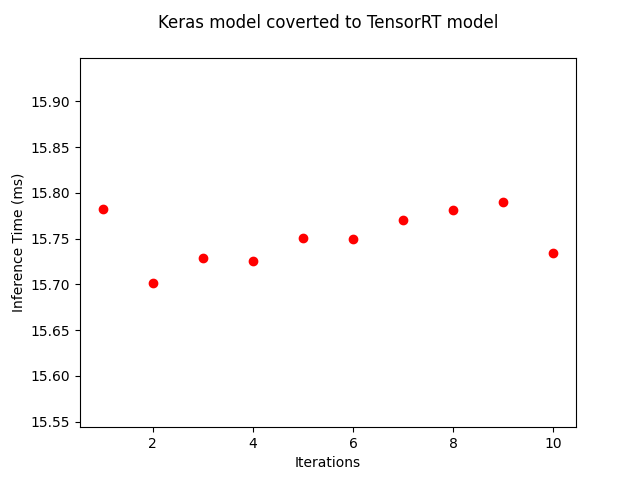
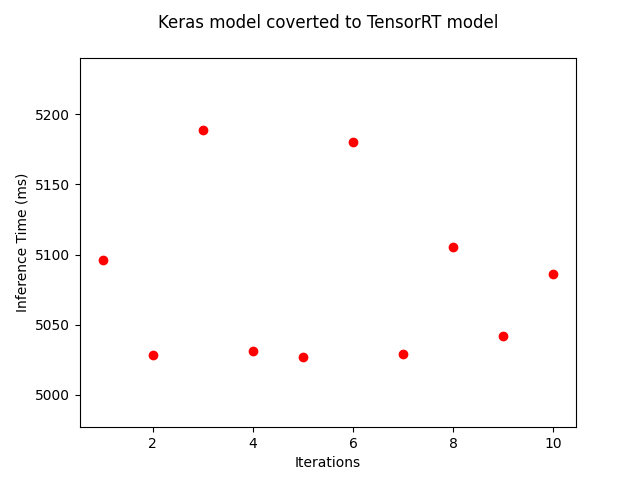
m,nm,

diff --git a/runtime/runtime/tesst.py b/runtime/runtime/tesst.py
@@ -1,7 +1,7 @@
 a = [28346.26340866089, 28408.08868408203, 28422.67314924785, 28366.67872214016, 28386.4611393574, 28343.18676076686, 28325.18460088126, 28407.54472347473, 28438.78745586606, 28439.75975982661]
 b = [256303.6434650421, 249321.50077819824, 256547.8753627453, 249741.8396472931, 247546.98657989502, 255889.4952193886, 256818.8916057801, 253136.6511636468, 250562.2741344004, 259439.1410456818]
-c = [24526.4253616333, 24399.231672286987, 24442.43281615819, 24437.33900843465, 24476.42224706577, 24475.43293650316, 24506.83685101479, 24524.50671936299, 24537.33167489083, 24451.54413778535]
-d = [15860.400438308716, 16003.870643178016, 15925.209657683425, 15887.1520994536, 15846.181471376374, 15825.229221967473, 16007.650881747957, 15798.100303473751, 15961.959201080297, 15780.764892232613]
+c = [5096.033573150635, 5028.115588388263, 5188.541350908367, 5031.151940463104, 5027.166984252482, 5180.261882229292, 5029.117975579096, 5105.194769272201, 5042.087670181283, 5086.290595646324]
+d = [344314.96596336365, 351855.140209198, 351871.97204468725, 348931.5975860581, 345376.1910304965, 346759.1915006889, 350542.4948814845, 348764.7173796807, 344505.7678921289, 348419.72281439696]
 for i in range(10):
     print("\hline")
     temp = str(i+1) + " & " + str(c[i]/1554) + " & " + str(d[i]) + "\\" + "\\"
@@ -10,4 +10,4 @@ for i in range(10):
 temp = 0
 for i in d:
     temp+=i
-print(temp/10)
+print(temp/15540)

diff --git a/runtime/runtime/graph_keras.py b/runtime/runtime/graph_keras.py
@@ -1,10 +1,8 @@
 from matplotlib import pyplot as plt
 
-f = [24526.4253616333, 24399.231672286987, 24442.43281615819, 24437.33900843465, 24476.42224706577, 24475.43293650316, 24506.83685101479, 24524.50671936299, 24537.33167489083, 24451.54413778535]
-b = [15860.400438308716, 16003.870643178016, 15925.209657683425, 15887.1520994536, 15846.181471376374, 15825.229221967473, 16007.650881747957, 15798.100303473751, 15961.959201080297, 15780.764892232613]
-a = []
-for i in f:
-    a.append(i/1554)
+a = [5096.033573150635, 5028.115588388263, 5188.541350908367, 5031.151940463104, 5027.166984252482, 5180.261882229292, 5029.117975579096, 5105.194769272201, 5042.087670181283, 5086.290595646324]
+b = [344314.96596336365, 351855.140209198, 351871.97204468725, 348931.5975860581, 345376.1910304965, 346759.1915006889, 350542.4948814845, 348764.7173796807, 344505.7678921289, 348419.72281439696]
+
 
 c =range(1,11)
 
@@ -25,7 +23,7 @@ c =range(1,11)
 
 
 d = ["TensorRT", "Keras"]
-e = [sum(a)/15540, sum(b)]
+e = [sum(a)/15540, sum(b)/15540]
 plt.barh(d,e,height=0.1,align='center')
 plt.title("Comparing the 2 model\n Average inference time")
 plt.ylabel("Model type")

diff --git a/testing_zone/tensorrt/comparing__keras.py b/testing_zone/tensorrt/comparing__keras.py
@@ -64,4 +64,4 @@ for root, directories, files in os.walk(data_path):
 print("total time for emotional recognition for keras model: {}".format(time_total*1000))
 # print(time_total*1000)    
 print("Accuracy: {}".format(res*1.0/count))
-print("Total frames processed: {}".format(count))
+# print("Total frames processed: {}".format(count))

diff --git a/testing_zone/tensorrt/comparing__keras_tensorrt.py b/testing_zone/tensorrt/comparing__keras_tensorrt.py
@@ -55,5 +55,5 @@ for image in images:
 print("total time for emotional recognition for tensorrt model: {}".format(time_total*1000))
 # print(time_total*1000)    
 print("Accuracy: {}".format(res*1.0/count))
-print("Total frames processed: {}".format(count))
+# print("Total frames processed: {}".format(count))
 exit()
